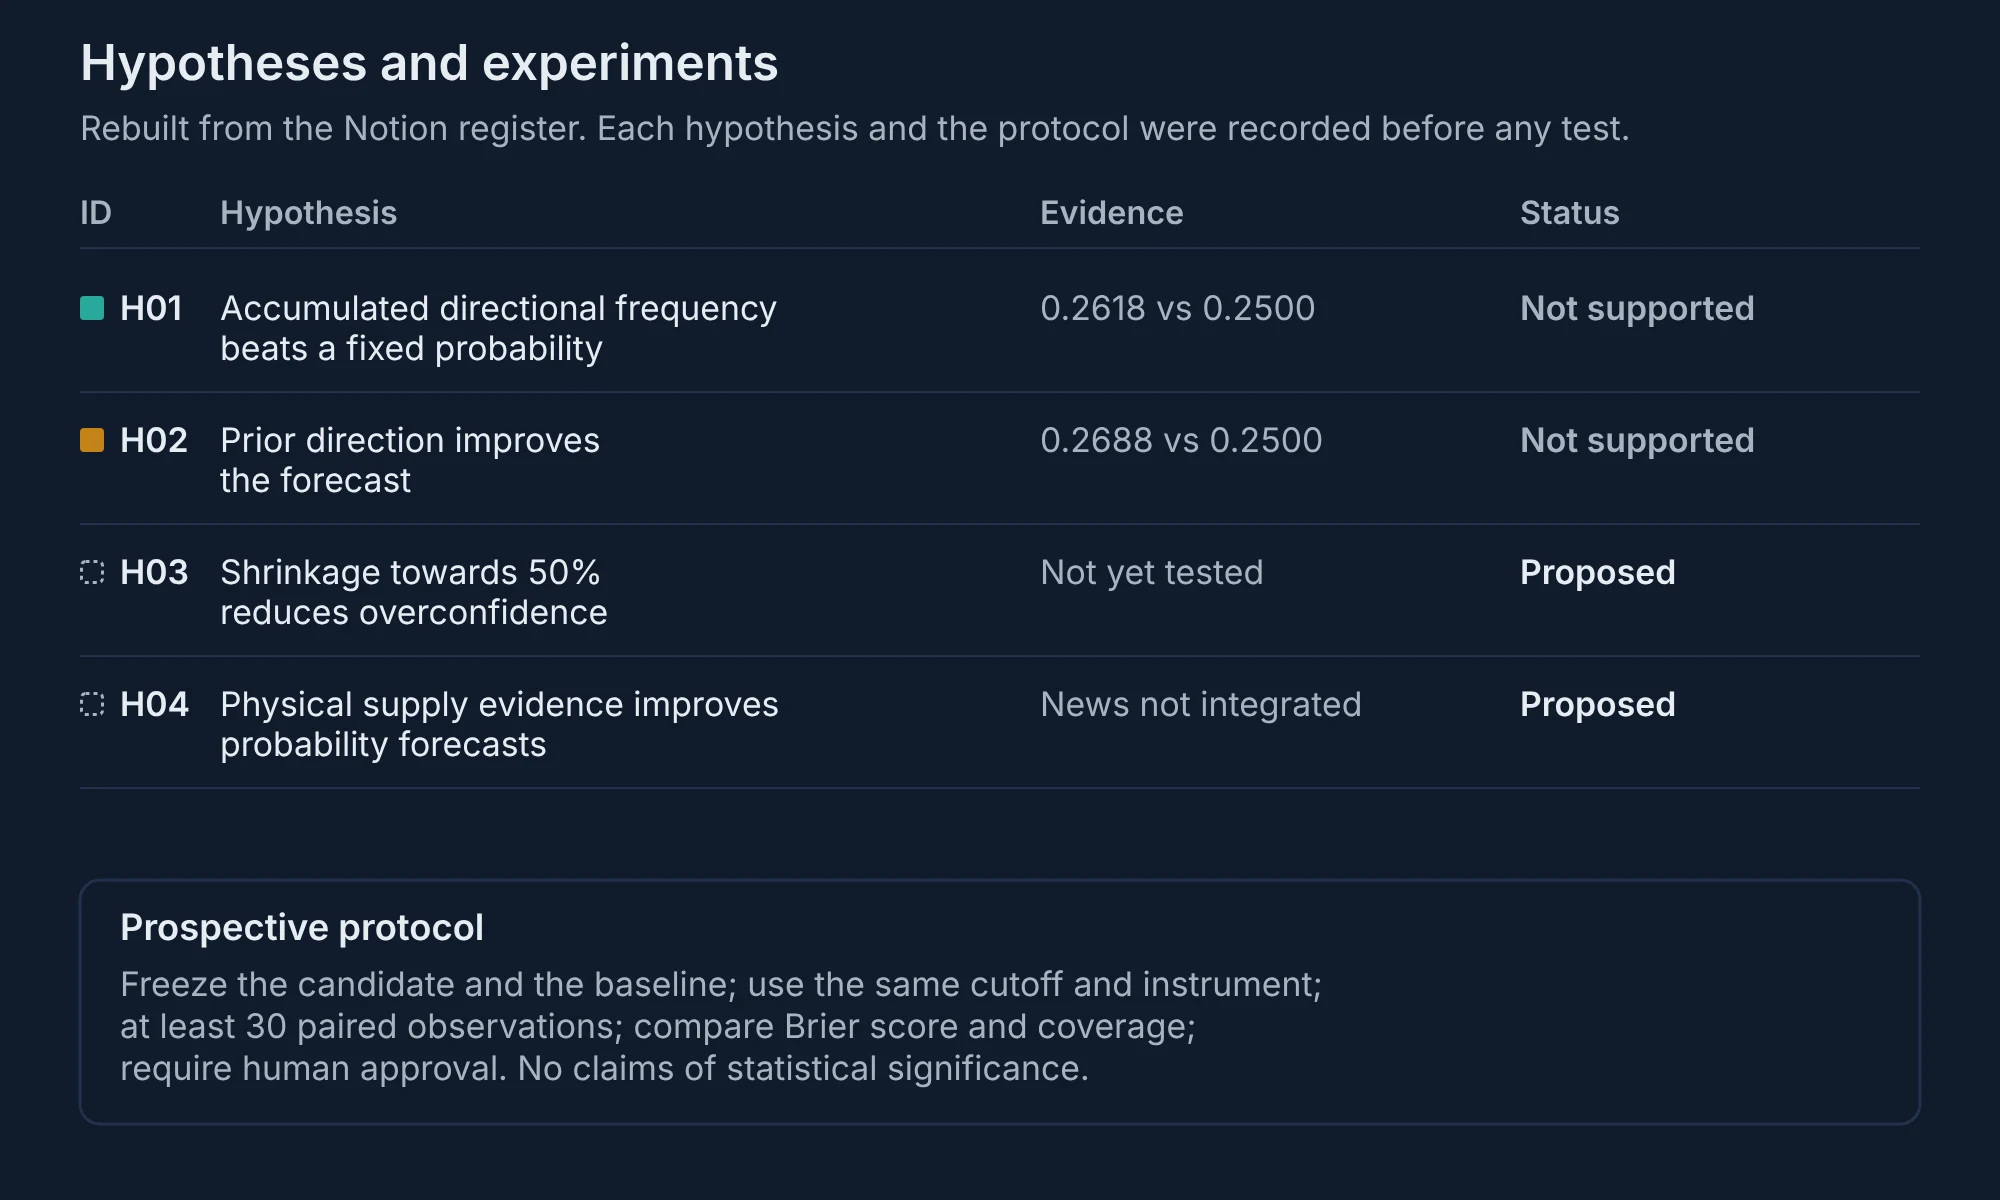
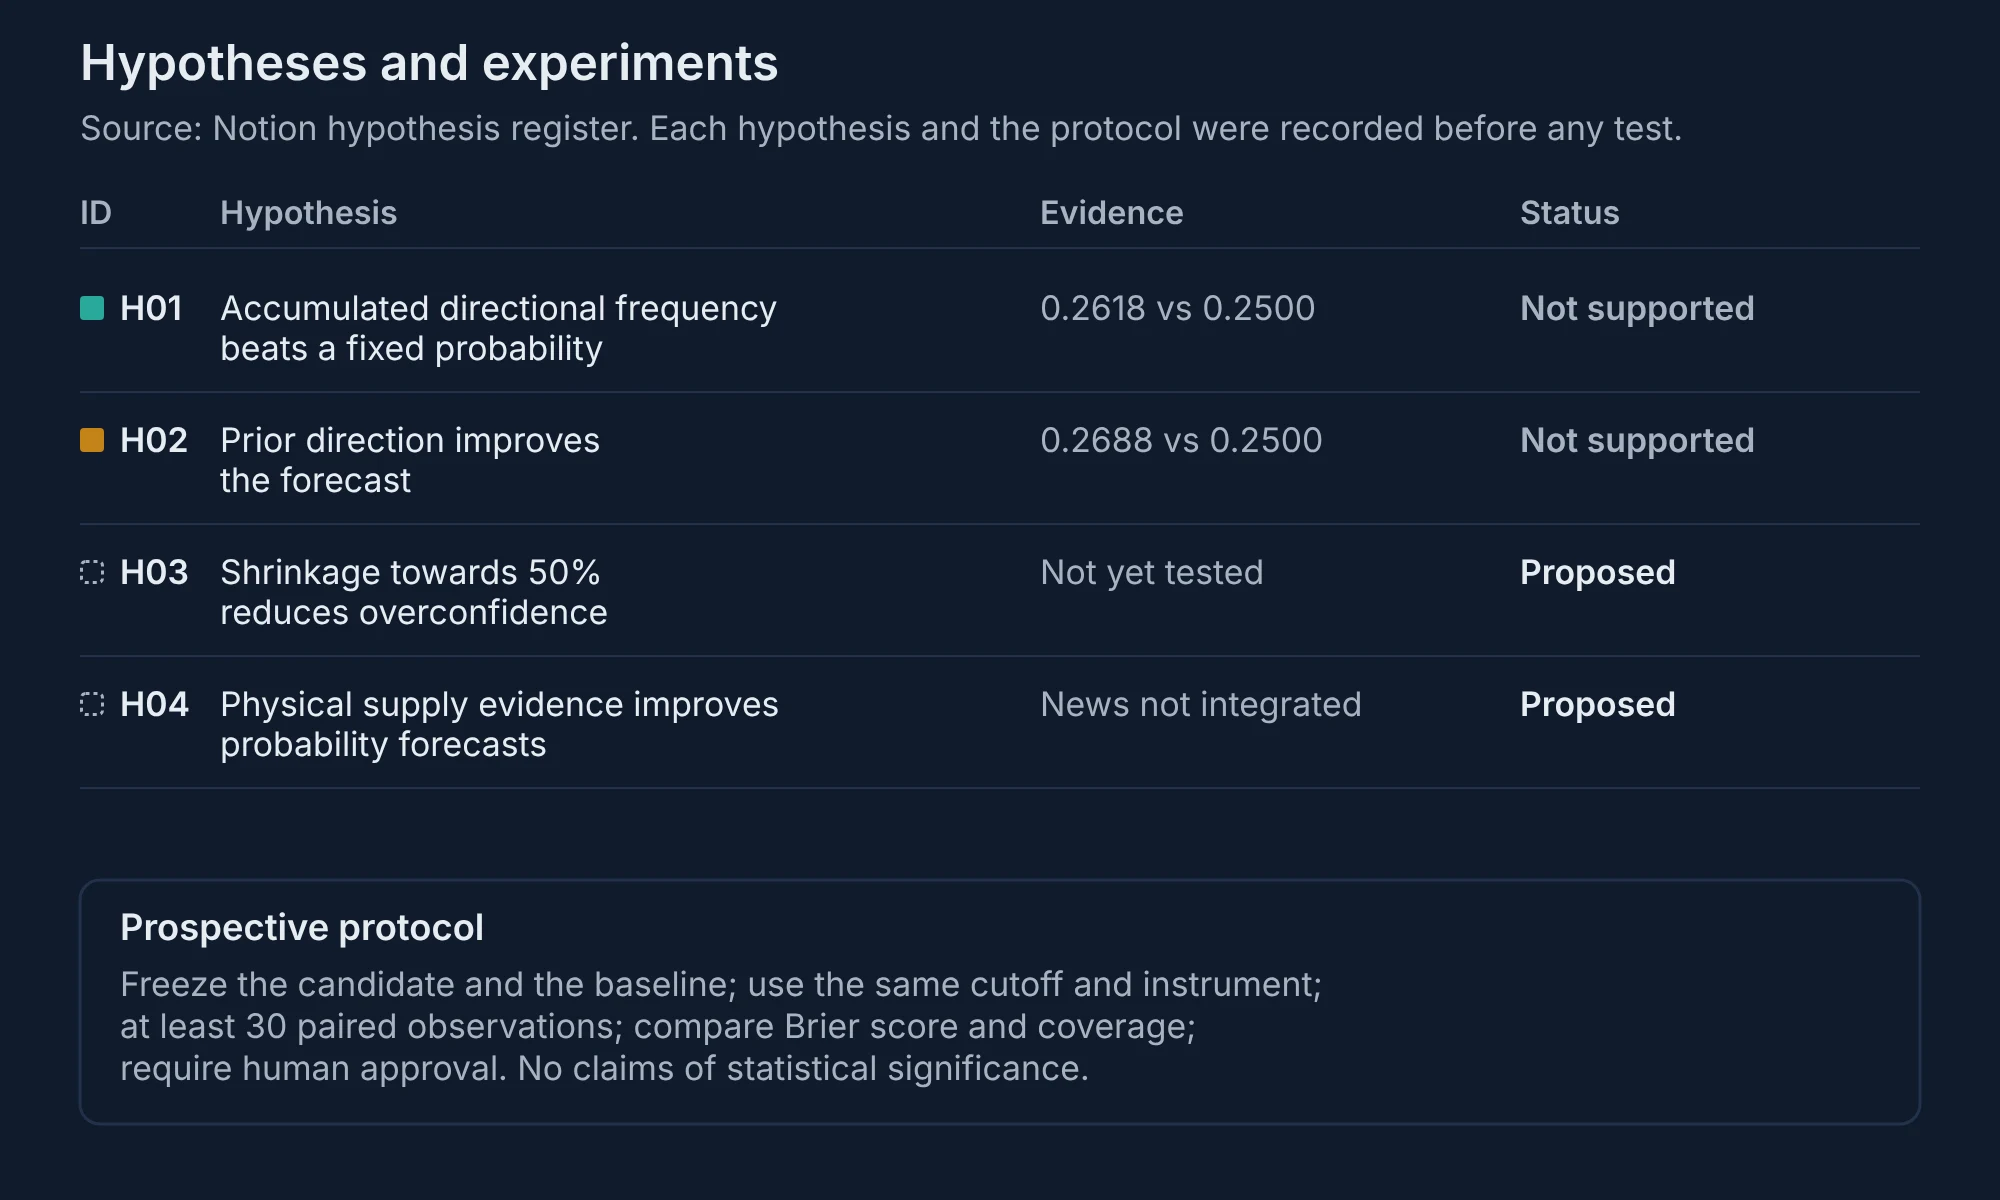
Intelligence That Compounds Part 2: natural source lines for figures (#40)
Captions and figure subtitles now name their source (Notion learning journal, Notion hypothesis register, session records stored in Supabase) instead of repeating "rebuilt".

Claude-Session: https://claude.ai/code/session_01PCepdGaVZTpv1iAXpZD5jy

Changed region(s): [[0.031, 0.0925, 0.837, 0.1233]]

diff --git a/blog/intelligence-that-compounds-2-what-it-means.html b/blog/intelligence-that-compounds-2-what-it-means.html
@@ -43,7 +43,7 @@
 <p>In terms of the architecture in Part 1, each session went through the same cycle. The strategies drew on their accumulated experience, the outcomes and statistical state built up over earlier sessions, to estimate the probability of a rise. When the outcome was revealed, evaluation scored each forecast against the baseline, the adaptive strategies updated their internal state, and the decision, outcome and score were recorded in Supabase, with a reflection written to Notion. The only external data was the price series; everything else the strategies used was experience they had built up themselves.</p>
 <p>That design let me examine how accumulated experience shaped later predictions, how confidence evolved, and whether adaptation turned into measurable improvement. The <a href="#technical-appendix">technical appendix</a> at the end sets out the methodology, scope and implementation status.</p>
 <p>I set it up this way because of the monitoring workflow described in the prologue. Seven weeks of scheduled commentary on Brent had produced plenty of analysis and very little that could be checked. Here every decision had to be recorded before its outcome, and every outcome scored, so that whatever happened would at least be measurable.</p>
-<figure class="shot"><img src="img/compounds/exp-dashboard.webp" loading="lazy" alt="The 60-session learning experiment, 25 August to 17 November 2026. Upper panel: Brent spot price, rising from $88.24 to a peak of $135.51 on 2 October and falling back to $92.94. Lower panel: cumulative mean Brier loss, lower is better. The adaptive strategy, in teal, and the regime-sensitive strategy, in amber, swing widely in the first sessions and then settle slightly above the fixed baseline&#x27;s dashed grey line at 0.2500, finishing at 0.2618 and 0.2688. Over all 60 sessions neither learning strategy beats the fixed baseline, so neither is promoted; forecasting scores only, no trading returns claimed."><figcaption>Figure 1. The experiment's performance dashboard, rebuilt from the session records behind the Notion dashboard. Prices above; cumulative Brier loss below, with the adaptive strategy in teal, the regime-sensitive strategy in amber and the fixed 50% baseline as a dashed grey line. The same colours are used for the three strategies in every figure in this series.</figcaption></figure>
+<figure class="shot"><img src="img/compounds/exp-dashboard.webp" loading="lazy" alt="The 60-session learning experiment, 25 August to 17 November 2026. Upper panel: Brent spot price, rising from $88.24 to a peak of $135.51 on 2 October and falling back to $92.94. Lower panel: cumulative mean Brier loss, lower is better. The adaptive strategy, in teal, and the regime-sensitive strategy, in amber, swing widely in the first sessions and then settle slightly above the fixed baseline&#x27;s dashed grey line at 0.2500, finishing at 0.2618 and 0.2688. Over all 60 sessions neither learning strategy beats the fixed baseline, so neither is promoted; forecasting scores only, no trading returns claimed."><figcaption>Figure 1. Performance dashboard: a visualisation of the session records stored in Supabase. Prices above; cumulative Brier loss below, with the adaptive strategy in teal, the regime-sensitive strategy in amber and the fixed 50% baseline as a dashed grey line. The same colours are used for the three strategies in every figure in this series.</figcaption></figure>
 <p>Before going through the sessions, it helps to see the whole record at once. Figure 2 plots how confident each learning strategy was before every session, with the actual outcome underneath.</p>
 <figure class="shot"><img src="img/compounds/exp-confidence.webp" loading="lazy" alt="Line chart of the probability of a rise stated before each of 60 sessions, from 25 August to 17 November 2026. The adaptive strategy, in teal, starts at 50%, dips to 25% after two falls, climbs steadily to about 71% during a run of rises in early September, then declines gradually through October and settles around 44% by mid-November. The regime-sensitive strategy, in amber, follows a much more volatile path: it peaks at 77.8% on 10 September, when Brent rose 10.5%, and 80% on 11 September, when Brent fell 2.4%, then swings repeatedly between about 36% and 75%, ending around 40%; on 4 November it stood at 41.4% and Brent fell 14.2%, and on 5 November at 40% and Brent rose 6.7%. A dashed grey line marks the fixed 50% baseline. A strip below marks each session&#x27;s outcome as a rise or a fall. Each block of 20 sessions is labelled with both strategies&#x27; mean Brier loss: adaptive 0.277, 0.259 and 0.249; regime-sensitive 0.258, 0.297 and 0.252; the baseline scores 0.250 in every block."><figcaption>Figure 2. Confidence over time, computed from the 60 stored session records. The adaptive strategy moves slowly and settles; the regime-sensitive strategy moves quickly and keeps swinging.</figcaption></figure>
 <h2 id="starting-without-experience">Starting without experience</h2>
@@ -59,7 +59,7 @@
 <div class="tablewrap"><table><thead><tr><th></th><th>10 September</th><th>11 September</th></tr></thead><tbody><tr><td>Previous experience</td><td>Six rises in the seven sessions after a rise</td><td>Seven rises in the eight sessions after a rise</td></tr><tr><td>Decision</td><td>77.8% chance of a rise</td><td>80.0% chance of a rise</td></tr><tr><td>Observed outcome</td><td>Brent rose 10.47%</td><td>Brent fell 2.41%</td></tr><tr><td>Evaluation</td><td>Brier 0.049 against the baseline's 0.25: supported</td><td>Brier 0.64 against 0.25: confidence misplaced</td></tr><tr><td>Subsequent change</td><td>Confidence raised to 80%</td><td>After a fall, it switched to its record of sessions that followed a fall, 2 rises in 4, and said 50%</td></tr></tbody></table></div>
 <figure class="shot"><img src="img/compounds/exp-case-a.webp" loading="lazy" alt="Case A, learning a rising trend, regime-sensitive strategy. Brent spot price rises from $104.47 on 7 September to $120.98 on 10 September and falls to $118.06 on 11 September. 10 September: 77.8% probability of a rise; Brent rose 10.47%; prediction supported, Brier 0.049 against 0.250. 11 September: 80.0% probability of a rise; Brent fell 2.41%; prediction failed, Brier 0.640 against 0.250."><figcaption>Figure 3. Case A, the regime-sensitive strategy on 10 and 11 September: supported, then failed at the reversal.</figcaption></figure>
 <p>The learning journal records each of these sessions: the probability before the outcome, the realised move, the loss against the baseline, and the probability the strategy would carry into the next session.</p>
-<figure class="shot"><img src="img/compounds/exp-journal.webp" loading="lazy" alt="Learning journal, three consecutive reflections, mechanically derived from the stored statistical results, not written by a language model. Session 11, 9 September: adaptive 66.7%, regime-sensitive 75.0%, realised move +3.19%, adaptive loss 0.1111 against the baseline&#x27;s 0.2500, beat the baseline, next adaptive probability 69.2%. Session 12, 10 September: adaptive 69.2%, regime-sensitive 77.8%, realised +10.47%, loss 0.0947, beat the baseline, next 71.4%. Session 13, 11 September: adaptive 71.4%, regime-sensitive 80.0%, realised −2.41%, loss 0.5102, underperformed the baseline, confidence was misplaced, next 66.7%."><figcaption>Figure 4. Three consecutive reflections from the learning journal: two confident wins, then a confident miss that cost almost as much as both had gained. Rebuilt from the Notion learning journal.</figcaption></figure>
+<figure class="shot"><img src="img/compounds/exp-journal.webp" loading="lazy" alt="Learning journal, three consecutive reflections, mechanically derived from the stored statistical results, not written by a language model. Session 11, 9 September: adaptive 66.7%, regime-sensitive 75.0%, realised move +3.19%, adaptive loss 0.1111 against the baseline&#x27;s 0.2500, beat the baseline, next adaptive probability 69.2%. Session 12, 10 September: adaptive 69.2%, regime-sensitive 77.8%, realised +10.47%, loss 0.0947, beat the baseline, next 71.4%. Session 13, 11 September: adaptive 71.4%, regime-sensitive 80.0%, realised −2.41%, loss 0.5102, underperformed the baseline, confidence was misplaced, next 66.7%."><figcaption>Figure 4. Three consecutive reflections from the learning journal: two confident wins, then a confident miss that cost almost as much as both had gained. Source: Notion learning journal.</figcaption></figure>
 <p>What I take from Case A is that the same accumulated evidence did two things at once. It let the strategies recognise the trend, and it made them most confident at exactly the point where the trend ended. I don't think that is a quirk of these two simple strategies; any system that learns from a run of outcomes faces it. This is also where the evaluation step matters in the architecture. Because every forecast was scored against the same baseline, the record shows directly that the strategy's most confident forecasts carried its largest losses, which turns confidence into something a future strategy should control explicitly rather than inherit from its counts.</p>
 <h2 id="updating-after-failure">Updating after failure</h2>
 <p>What a system does after a failure says a lot about how it learns, and here the two strategies behaved very differently.</p>
@@ -91,7 +91,7 @@
 <p>Given those results, the governance decisions were straightforward. The fixed baseline was retained. The adaptive strategy was not promoted, but it stays under test because it was still improving. The regime-sensitive strategy was not promoted.</p>
 <figure class="shot"><img src="img/compounds/exp-governance.webp" loading="lazy" alt="Overall evaluation and governance decisions, as mean Brier loss over all 60 sessions: fixed baseline, in dashed grey, 0.2500, retain; adaptive strategy, in teal, 0.2618, continue testing; regime-sensitive strategy, in amber, 0.2688, do not promote; confidence-adjusted strategy, proposed experiment."><figcaption>Figure 9. The overall evaluation and the decisions it led to. Neither learning strategy is promoted; one stays under test, and a new experiment is proposed.</figcaption></figure>
 <p>The next experiment came out of the failures in September and November. Both strategies lost most heavily when they were most confident, so the proposal is a confidence-adjusted strategy that pulls its probabilities towards 50% until enough evidence has built up to justify moving away. The hypotheses and the protocol for testing them were written down before any test.</p>
-<figure class="shot"><img src="img/compounds/exp-hypotheses.webp" loading="lazy" alt="Hypotheses and experiments. H01, in teal, accumulated directional frequency beats a fixed probability: 0.2618 versus 0.2500, not supported. H02, in amber, prior direction improves the forecast: 0.2688 versus 0.2500, not supported. H03, shrinkage towards 50% reduces overconfidence: not yet tested, proposed. H04, physical supply evidence improves probability forecasts: news not integrated, proposed. Prospective protocol: freeze the candidate and the baseline, use the same cutoff and instrument, at least 30 paired observations, compare Brier score and coverage, require human approval; no claims of statistical significance."><figcaption>Figure 10. Hypotheses and the testing protocol, recorded before any test. Rebuilt from the Notion register.</figcaption></figure>
+<figure class="shot"><img src="img/compounds/exp-hypotheses.webp" loading="lazy" alt="Hypotheses and experiments. H01, in teal, accumulated directional frequency beats a fixed probability: 0.2618 versus 0.2500, not supported. H02, in amber, prior direction improves the forecast: 0.2688 versus 0.2500, not supported. H03, shrinkage towards 50% reduces overconfidence: not yet tested, proposed. H04, physical supply evidence improves probability forecasts: news not integrated, proposed. Prospective protocol: freeze the candidate and the baseline, use the same cutoff and instrument, at least 30 paired observations, compare Brier score and coverage, require human approval; no claims of statistical significance."><figcaption>Figure 10. Hypotheses and the testing protocol, recorded before any test. Source: Notion hypothesis register.</figcaption></figure>
 <p>Every candidate follows the same protocol: freeze the candidate and the baseline, use the same cutoff and the same instrument, collect at least 30 paired future observations, compare Brier score and coverage, and require my approval before anything changes. Because each test runs forward on dates that had not happened when it began, this is walk-forward evaluation, the usual safeguard against strategies that only fit the past.<sup class="cite"><a href="#src-2" aria-label="Source 2">2</a></sup></p>
 <h2 id="what-i-take-from-it">What I take from it</h2>
 <p>Reported on its own, the 10.3% improvement would have overstated the result, and it was the architecture that prevented that. Because every decision was recorded before its outcome, experience could accumulate and change the next decision, and Figure 2 is that change made visible. Because evaluation compared each strategy with a baseline that never learned, on the same sessions, it could show that the adaptive strategy was improving and still not good enough. And because adoption required a human decision against rules set in advance, the system kept its baseline and turned its failures into the next experiment.</p>

diff --git a/blog/intelligence-that-compounds-2-what-it-means.md b/blog/intelligence-that-compounds-2-what-it-means.md
@@ -29,7 +29,7 @@ I set it up this way because of the monitoring workflow described in the prologu
 
 ![The 60-session learning experiment, 25 August to 17 November 2026. Upper panel: Brent spot price, rising from $88.24 to a peak of $135.51 on 2 October and falling back to $92.94. Lower panel: cumulative mean Brier loss, lower is better. The adaptive strategy, in teal, and the regime-sensitive strategy, in amber, swing widely in the first sessions and then settle slightly above the fixed baseline's dashed grey line at 0.2500, finishing at 0.2618 and 0.2688. Over all 60 sessions neither learning strategy beats the fixed baseline, so neither is promoted; forecasting scores only, no trading returns claimed.](img/compounds/exp-dashboard.webp)
 
-*Figure 1. The experiment's performance dashboard, rebuilt from the session records behind the Notion dashboard. Prices above; cumulative Brier loss below, with the adaptive strategy in teal, the regime-sensitive strategy in amber and the fixed 50% baseline as a dashed grey line. The same colours are used for the three strategies in every figure in this series.*
+*Figure 1. Performance dashboard: a visualisation of the session records stored in Supabase. Prices above; cumulative Brier loss below, with the adaptive strategy in teal, the regime-sensitive strategy in amber and the fixed 50% baseline as a dashed grey line. The same colours are used for the three strategies in every figure in this series.*
 
 Before going through the sessions, it helps to see the whole record at once. Figure 2 plots how confident each learning strategy was before every session, with the actual outcome underneath.
 
@@ -73,7 +73,7 @@ The learning journal records each of these sessions: the probability before the 
 
 ![Learning journal, three consecutive reflections, mechanically derived from the stored statistical results, not written by a language model. Session 11, 9 September: adaptive 66.7%, regime-sensitive 75.0%, realised move +3.19%, adaptive loss 0.1111 against the baseline's 0.2500, beat the baseline, next adaptive probability 69.2%. Session 12, 10 September: adaptive 69.2%, regime-sensitive 77.8%, realised +10.47%, loss 0.0947, beat the baseline, next 71.4%. Session 13, 11 September: adaptive 71.4%, regime-sensitive 80.0%, realised −2.41%, loss 0.5102, underperformed the baseline, confidence was misplaced, next 66.7%.](img/compounds/exp-journal.webp)
 
-*Figure 4. Three consecutive reflections from the learning journal: two confident wins, then a confident miss that cost almost as much as both had gained. Rebuilt from the Notion learning journal.*
+*Figure 4. Three consecutive reflections from the learning journal: two confident wins, then a confident miss that cost almost as much as both had gained. Source: Notion learning journal.*
 
 What I take from Case A is that the same accumulated evidence did two things at once. It let the strategies recognise the trend, and it made them most confident at exactly the point where the trend ended. I don't think that is a quirk of these two simple strategies; any system that learns from a run of outcomes faces it. This is also where the evaluation step matters in the architecture. Because every forecast was scored against the same baseline, the record shows directly that the strategy's most confident forecasts carried its largest losses, which turns confidence into something a future strategy should control explicitly rather than inherit from its counts.
 
@@ -160,7 +160,7 @@ The next experiment came out of the failures in September and November. Both str
 
 ![Hypotheses and experiments. H01, in teal, accumulated directional frequency beats a fixed probability: 0.2618 versus 0.2500, not supported. H02, in amber, prior direction improves the forecast: 0.2688 versus 0.2500, not supported. H03, shrinkage towards 50% reduces overconfidence: not yet tested, proposed. H04, physical supply evidence improves probability forecasts: news not integrated, proposed. Prospective protocol: freeze the candidate and the baseline, use the same cutoff and instrument, at least 30 paired observations, compare Brier score and coverage, require human approval; no claims of statistical significance.](img/compounds/exp-hypotheses.webp)
 
-*Figure 10. Hypotheses and the testing protocol, recorded before any test. Rebuilt from the Notion register.*
+*Figure 10. Hypotheses and the testing protocol, recorded before any test. Source: Notion hypothesis register.*
 
 Every candidate follows the same protocol: freeze the candidate and the baseline, use the same cutoff and the same instrument, collect at least 30 paired future observations, compare Brier score and coverage, and require my approval before anything changes. Because each test runs forward on dates that had not happened when it began, this is walk-forward evaluation, the usual safeguard against strategies that only fit the past. [Wikipedia](https://en.wikipedia.org/wiki/Walk_forward_optimization)
 
